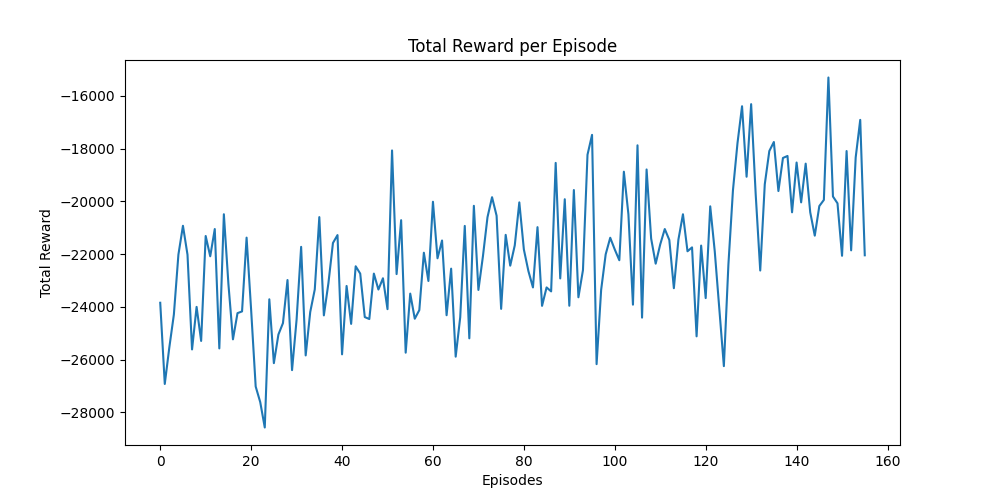
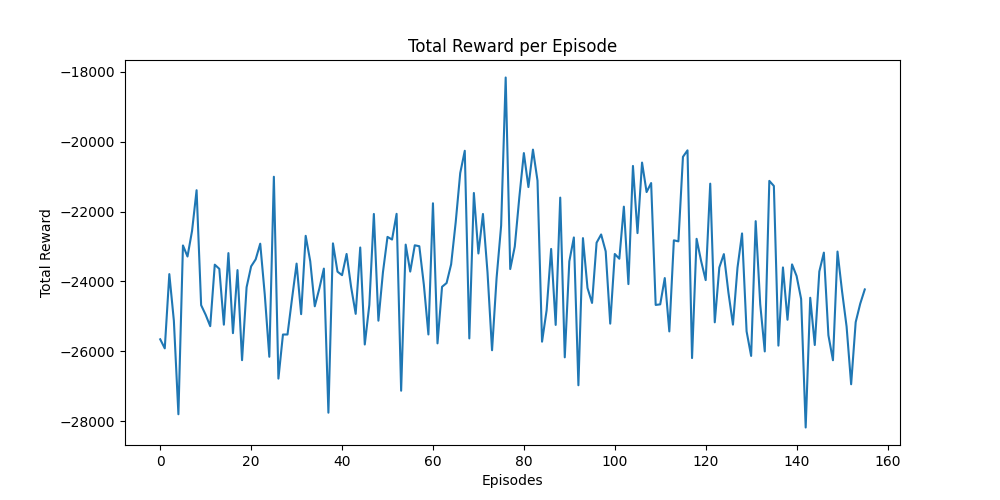
change to 5 action agent and add Pearl

diff --git a/train.py b/train.py
@@ -9,6 +9,18 @@ from stable_baselines3.common.monitor import Monitor
 from sb3_contrib import ARS
 from aquacroprice.envs.rice import Rice
 
+from pearl.pearl_agent import PearlAgent
+from pearl.action_representation_modules.one_hot_action_representation_module import (
+    OneHotActionTensorRepresentationModule,
+)
+from pearl.policy_learners.sequential_decision_making.deep_q_learning import (
+    DeepQLearning,
+)
+from pearl.replay_buffers.sequential_decision_making.fifo_off_policy_replay_buffer import (
+    FIFOOffPolicyReplayBuffer,
+)
+from pearl.utils.instantiations.environments.gym_environment import GymEnvironment
+
 import warnings
 import logging
 
@@ -123,6 +135,18 @@ algorithms = {
         n_top=16,
         delta_std=0.05  # Higher noise for more exploration
     ),
+    "Pearl": PearlAgent(
+        policy_learner=DeepQLearning(
+            state_dim=train_env.observation_space.shape[0],
+            action_space=train_env.action_space,
+            hidden_dims=[64, 64],
+            training_rounds=20,
+            action_representation_module=OneHotActionTensorRepresentationModule(
+                max_number_actions=train_env.action_space.n
+            ),
+        ),
+        replay_buffer=FIFOOffPolicyReplayBuffer(10_000),
+    )
 }
 
 # Define the Random Agent
@@ -150,7 +174,7 @@ for name, model in algorithms.items():
     eval_env = DummyVecEnv([lambda: Monitor(Rice(mode='eval', year1=2003, year2=2018))])
     
     print(f"Evaluating {name}...")
-    mean_reward, std_reward = evaluate_policy(model, eval_env, n_eval_episodes=1000, return_episode_rewards=False, deterministic=False)  # Allow exploration during evaluation
+    mean_reward, std_reward = evaluate_policy(model, eval_env, n_eval_episodes=1000, return_episode_rewards=False, deterministic=False)
     
     # Log evaluation results to Comet.ml
     experiment.log_metric(f"{name}_mean_reward", mean_reward)

diff --git a/aquacroprice/envs/rice.py b/aquacroprice/envs/rice.py
@@ -49,7 +49,7 @@ class Rice(gym.Env):
         self.observation_space = spaces.Box(low=-np.inf, high=np.inf, shape=(14,), dtype=np.float32)
         
         # self.action_depths = list(range(0, 26))  # This creates a list from 0 to 25
-        self.action_depths = [0, 15, 30]
+        self.action_depths = [0, 5, 10, 15, 20, 25]
         self.action_space = spaces.Discrete(len(self.action_depths))  # Discrete action space with 25 actions
 
 
